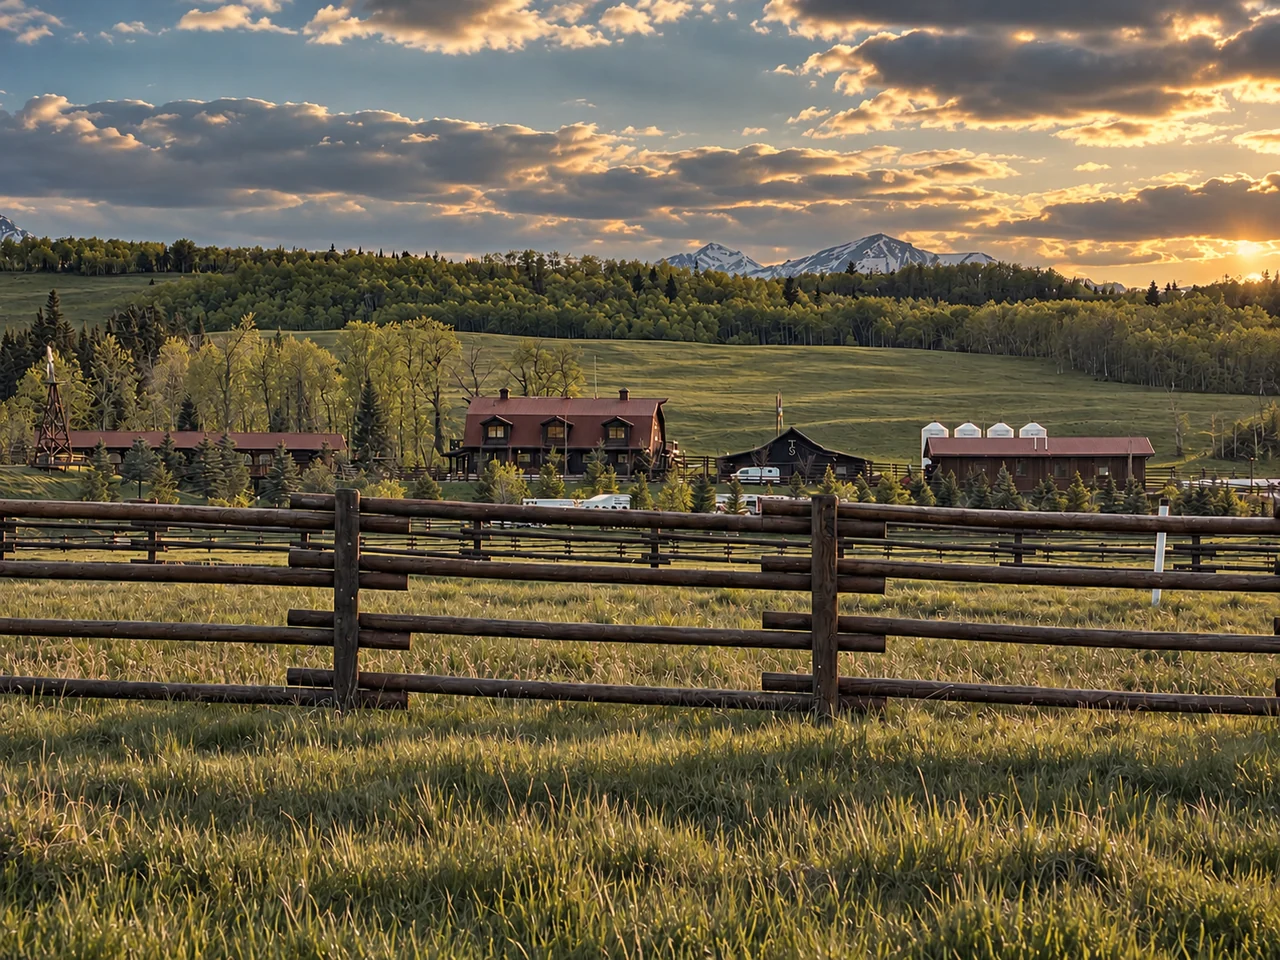
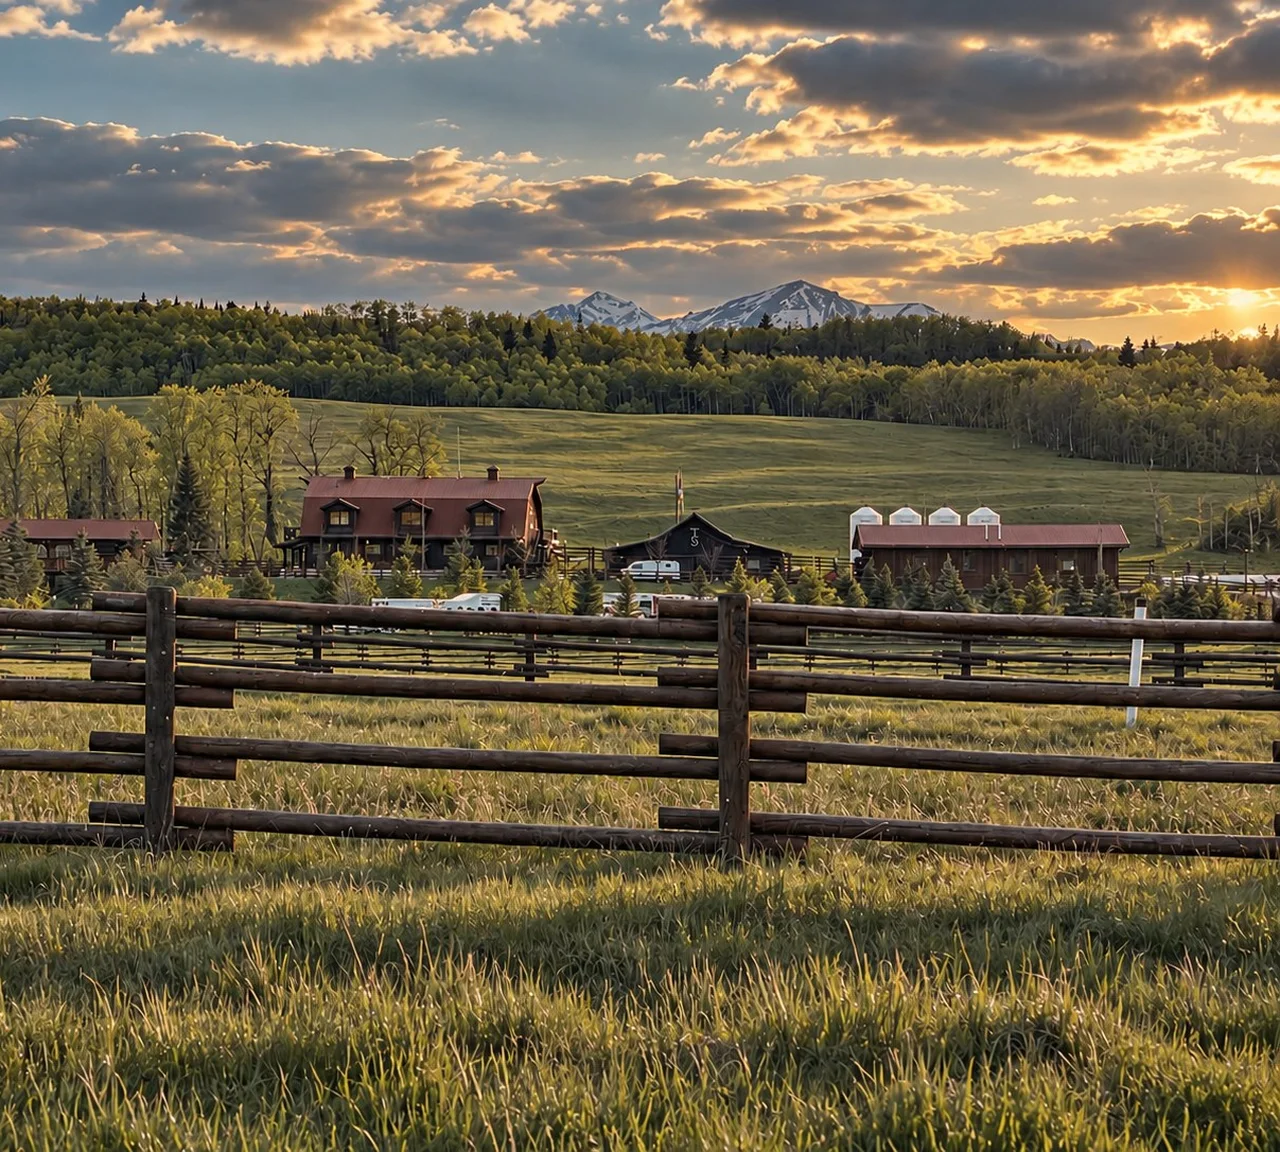
Fix Full Ranch Rental cabin image centering (root cause, not a focus tweak)
Root cause: the #full-ranch immersive section's box aspect ratio is wider
than the cabin photo's native 4:3 aspect at every realistic desktop viewport
width tested (1440-2560px), so object-fit:cover always scales to match width
exactly and never has horizontal room to crop. This means the --focus x
value has had zero visible effect here since it was introduced -- confirmed
with isolated Playwright renders (identical pixel output at focus 58% vs 20%).

Fix: re-crop the source image itself (removed left 16.67% of the frame) so
the lodge sits at true center once rendered at full width. Verified via
rendered screenshots at 1440/1728/1920/2560px that the lodge now lands
right at the 25% mark (center of the left column) consistently.

- Regenerated official-ranch-cabin-{640,1280,1920}.{jpg,webp}; 1920 tier
  capped at native crop resolution (1207px) rather than upsampled
- Reset #full-ranch --focus to 50%/50% (desktop) and recalculated
  --focus-sm to 30%/50% (mobile, where real cropping does occur) to
  preserve the previous mobile framing against the new asset
- Updated img width/height attrs on index.html, venues.html, and
  index-hero-b.html for the new ~1207:1086 aspect
- Verified: no horizontal overflow at 390px on any of the three pages

diff --git a/venues.html b/venues.html
@@ -202,7 +202,7 @@
     <div class="immersive__media">
       <picture>
         <source type="image/webp" srcset="assets/img/official-ranch-cabin-640.webp 640w, assets/img/official-ranch-cabin-1280.webp 1280w, assets/img/official-ranch-cabin-1920.webp 1920w" sizes="100vw">
-        <img src="assets/img/official-ranch-cabin-1280.jpg" alt="The Stampede Ranch buildings across open pasture at sunset, rail fence in the foreground and mountains beyond" loading="lazy" width="1280" height="960">
+        <img src="assets/img/official-ranch-cabin-1280.jpg" alt="The Stampede Ranch buildings across open pasture at sunset, rail fence in the foreground and mountains beyond" loading="lazy" width="1280" height="1152">
       </picture>
     </div>
     <div class="immersive__veil" aria-hidden="true"></div>
@@ -401,7 +401,7 @@
             <div class="card__media">
             <picture>
               <source type="image/webp" srcset="assets/img/official-arena-640.webp 640w, assets/img/official-arena-1280.webp 1280w" sizes="(max-width: 860px) 92vw, 31vw">
-              <img src="assets/img/official-arena-1280.jpg" alt="Riders gathered on horseback in the ranch outdoor arena, bleachers and ranch buildings behind" loading="lazy" width="1280" height="960">
+              <img src="assets/img/official-arena-1280.jpg" alt="Riders gathered on horseback in the ranch outdoor arena, bleachers and ranch buildings behind" loading="lazy" width="1280" height="1152">
             </picture>
             <span class="card__tag">Western experiences</span>
           </div>
@@ -427,7 +427,7 @@
             <div class="card__media">
             <picture>
               <source type="image/webp" srcset="assets/img/official-pasture-river-640.webp 640w, assets/img/official-pasture-river-1280.webp 1280w" sizes="(max-width: 860px) 92vw, 31vw">
-              <img src="assets/img/official-pasture-river-1280.jpg" alt="Horses grazing beside the creek on the ranch river flats, foothills behind" loading="lazy" width="1280" height="960">
+              <img src="assets/img/official-pasture-river-1280.jpg" alt="Horses grazing beside the creek on the ranch river flats, foothills behind" loading="lazy" width="1280" height="1152">
             </picture>
             <span class="card__tag">Open ground</span>
           </div>
@@ -701,7 +701,7 @@
     <div class="cta-band__bg">
       <picture>
         <source type="image/webp" srcset="assets/img/aerial-fall-coulee-1280.webp 1280w, assets/img/aerial-fall-coulee-1920.webp 1920w" sizes="100vw">
-        <img src="assets/img/aerial-fall-coulee-1280.jpg" alt="" loading="lazy" width="1280" height="960">
+        <img src="assets/img/aerial-fall-coulee-1280.jpg" alt="" loading="lazy" width="1280" height="1152">
       </picture>
     </div>
     <div class="wrap" data-reveal>

diff --git a/assets/css/main.css b/assets/css/main.css
@@ -1422,11 +1422,14 @@ body.page-wallpaper .section--cream {
   --focus-sm: 42% 40%;
 }
 .section--ink.section--immersive { --veil-rgb: 33,29,24; }
-/* The buildings sit near the centre of the frame; on desktop the right ~half
-   is veiled for the copy, so the focal point pulls left to centre the ranch
-   buildings within the visible left band. On mobile the full band shows, so
-   the focal point centres the buildings horizontally there too. */
-#full-ranch { --focus: 58% 50%; --focus-sm: 42% 50%; }
+/* 2026-09-08: the source photo (official-ranch-cabin) is now pre-cropped so the
+   lodge sits at the frame's true centre -- on every desktop width we tested,
+   this section's box is wide enough relative to the image that object-fit:cover
+   never has horizontal room to crop (it scales to match width exactly), so a
+   --focus x-offset had no visible effect here even though it does on other
+   immersive sections. Centring the image itself replaces the old 58%/42%
+   focus hack, which was tuned for the previous (uncropped) asset. */
+#full-ranch { --focus: 50% 50%; --focus-sm: 30% 50%; }
 .section--immersive > .wrap { position: relative; z-index: 2; }
 
 .immersive__media { position: absolute; inset: 0; z-index: 0; }

diff --git a/index.html b/index.html
@@ -404,7 +404,7 @@
     <div class="immersive__media">
       <picture>
         <source type="image/webp" srcset="assets/img/official-ranch-cabin-640.webp 640w, assets/img/official-ranch-cabin-1280.webp 1280w, assets/img/official-ranch-cabin-1920.webp 1920w" sizes="100vw">
-        <img src="assets/img/official-ranch-cabin-1280.jpg" alt="The Stampede Ranch buildings across open pasture at sunset, rail fence in the foreground and mountains beyond" loading="lazy" width="1280" height="960">
+        <img src="assets/img/official-ranch-cabin-1280.jpg" alt="The Stampede Ranch buildings across open pasture at sunset, rail fence in the foreground and mountains beyond" loading="lazy" width="1280" height="1152">
       </picture>
     </div>
     <div class="immersive__veil" aria-hidden="true"></div>

diff --git a/index-hero-b.html b/index-hero-b.html
@@ -362,7 +362,7 @@
     <div class="immersive__media">
       <picture>
         <source type="image/webp" srcset="assets/img/official-ranch-cabin-640.webp 640w, assets/img/official-ranch-cabin-1280.webp 1280w, assets/img/official-ranch-cabin-1920.webp 1920w" sizes="100vw">
-        <img src="assets/img/official-ranch-cabin-1280.jpg" alt="The timber ranch lodge across open pasture, rail fence in the foreground and the snow-capped Rockies beyond" loading="lazy" width="1280" height="961">
+        <img src="assets/img/official-ranch-cabin-1280.jpg" alt="The timber ranch lodge across open pasture, rail fence in the foreground and the snow-capped Rockies beyond" loading="lazy" width="1280" height="1152">
       </picture>
     </div>
     <div class="immersive__veil" aria-hidden="true"></div>
